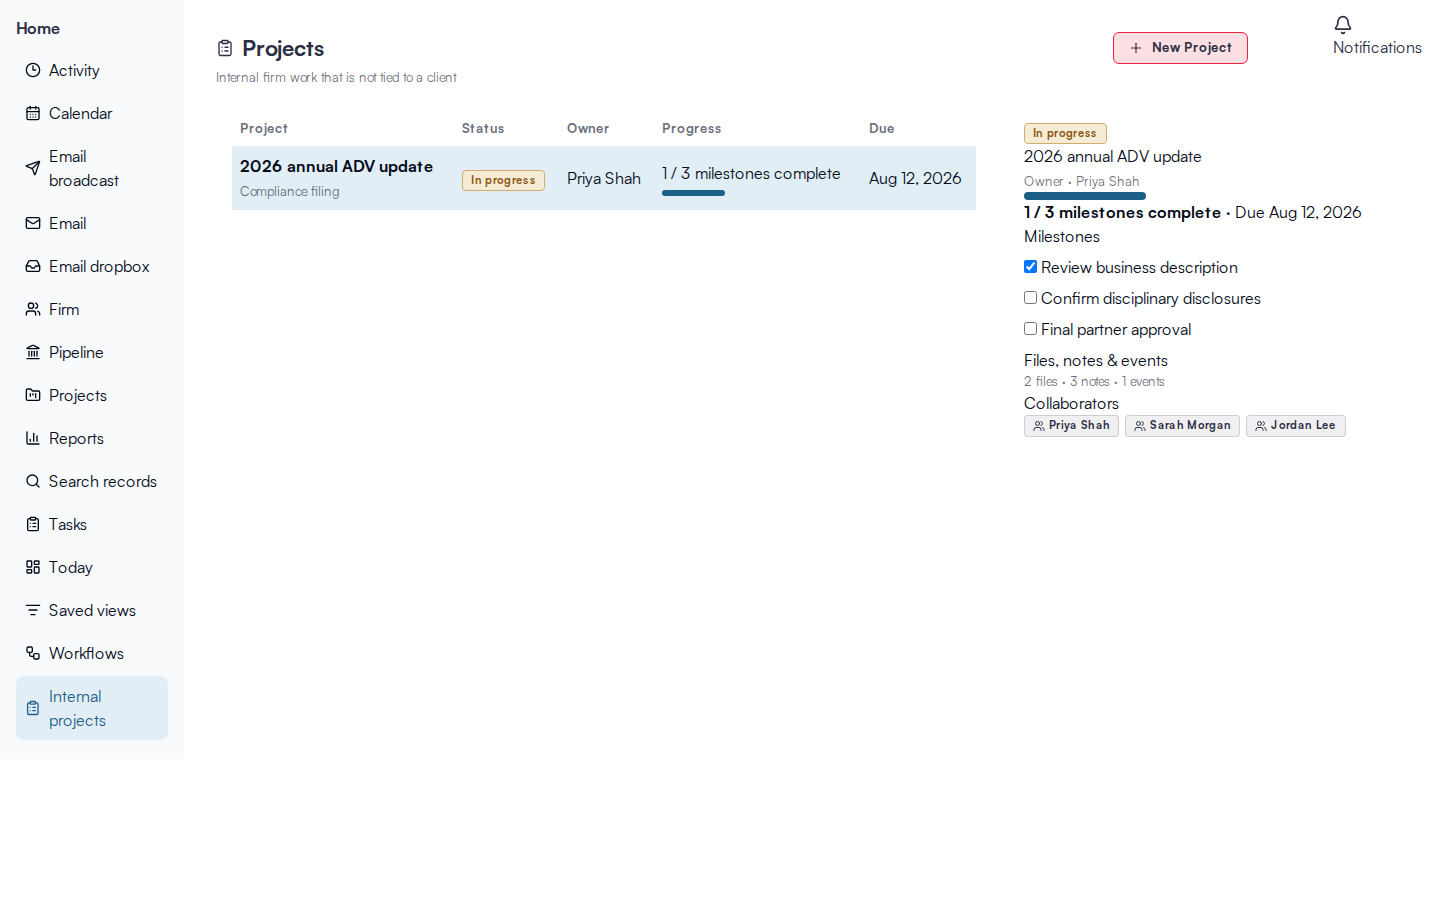
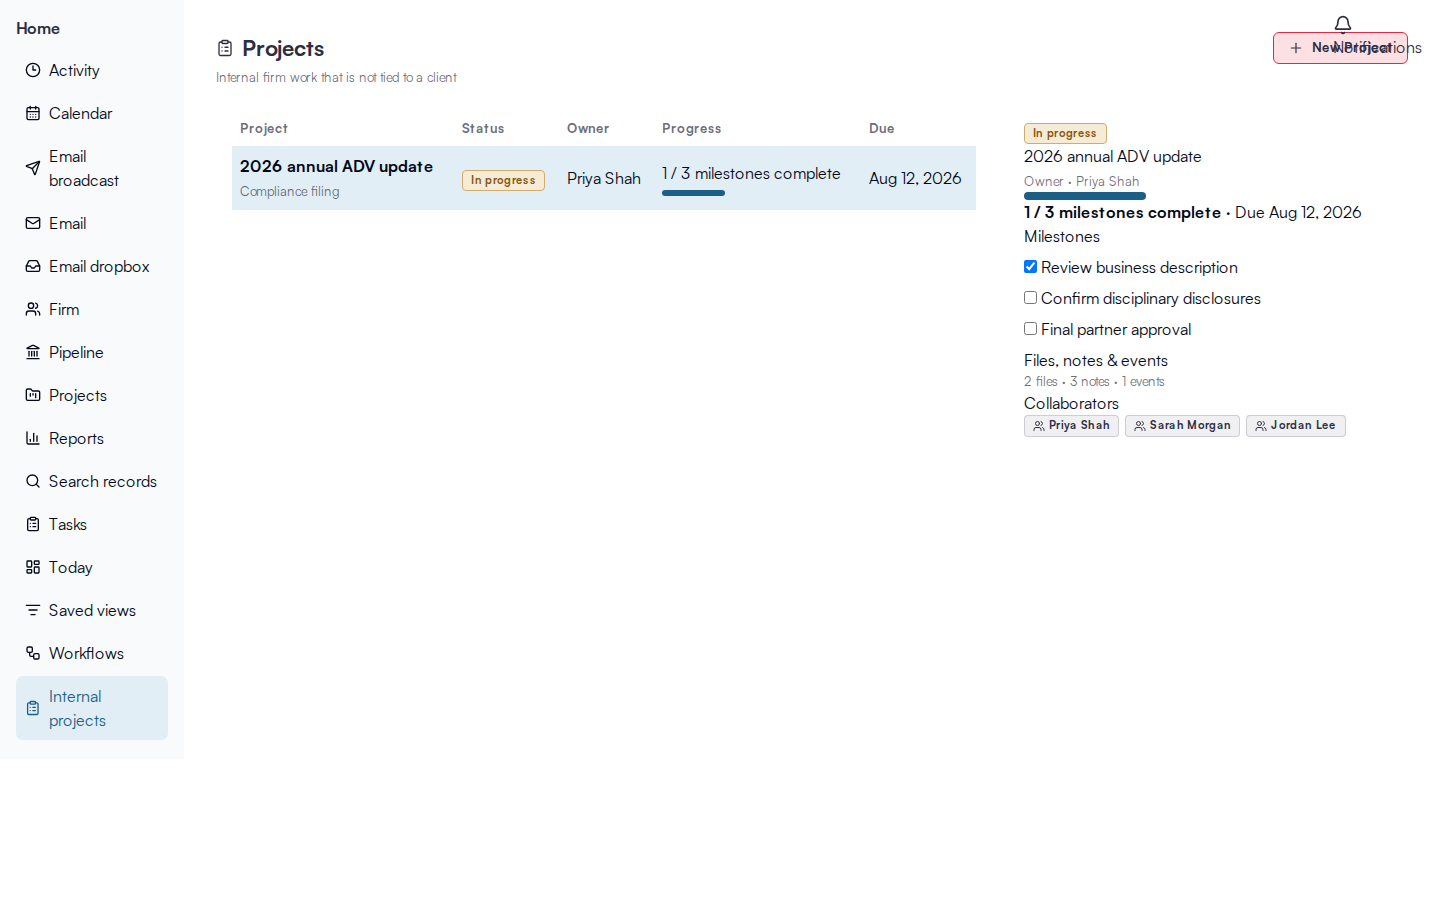
fix(crm): preserve responsive project header

Changed region(s): [[0.75, 0.0311, 1.0, 0.0933]]

diff --git a/src/features/crm-projects/internal/InternalProjectsSurface.tsx b/src/features/crm-projects/internal/InternalProjectsSurface.tsx
@@ -47,7 +47,7 @@ export function InternalProjectsSurface({ repository = createInternalProjectRepo
   const updateMilestone = (project: InternalProject, milestoneId: string) => save({ ...snapshot, projects: snapshot.projects.map((item) => item.id === project.id ? toggleInternalProjectMilestone(item, milestoneId) : item) });
 
   return <div data-testid="internal-projects-surface" style={{ padding: 'var(--kp-space-xl)', overflow: 'auto', width: '100%', display: 'grid', gap: 'var(--kp-space-md)', alignContent: 'start' }}>
-    <SurfaceHeader Icon={ClipboardList} title={t('internal-projects.title')} description={t('internal-projects.description')} actions={<Button data-testid="internal-projects-create" iconLeft={Plus} style={{ marginRight: 160 }} onClick={() => setCreating((value) => !value)}>{t('internal-projects.new')}</Button>} />
+    <SurfaceHeader Icon={ClipboardList} title={t('internal-projects.title')} description={t('internal-projects.description')} actions={<Button data-testid="internal-projects-create" iconLeft={Plus} onClick={() => setCreating((value) => !value)}>{t('internal-projects.new')}</Button>} />
     {creating ? <CreateProjectForm draft={draft} onChange={setDraft} onCancel={() => setCreating(false)} onCreate={create} /> : null}
     {snapshot.projects.length === 0 ? <EmptyState data-testid="internal-projects-empty" icon={ClipboardList} title={t('internal-projects.empty.title')} body={t('internal-projects.empty.body')} actions={<Button data-testid="internal-projects-empty-create" iconLeft={Plus} onClick={() => setCreating(true)}>{t('internal-projects.empty.action')}</Button>} /> : <div style={{ display: 'grid', gridTemplateColumns: 'minmax(0, 1.65fr) minmax(280px, 0.85fr)', gap: 'var(--kp-space-md)', alignItems: 'start' }}>
       <ProjectList projects={snapshot.projects} selectedProjectId={selected?.id ?? null} onSelect={select} t={t} />
